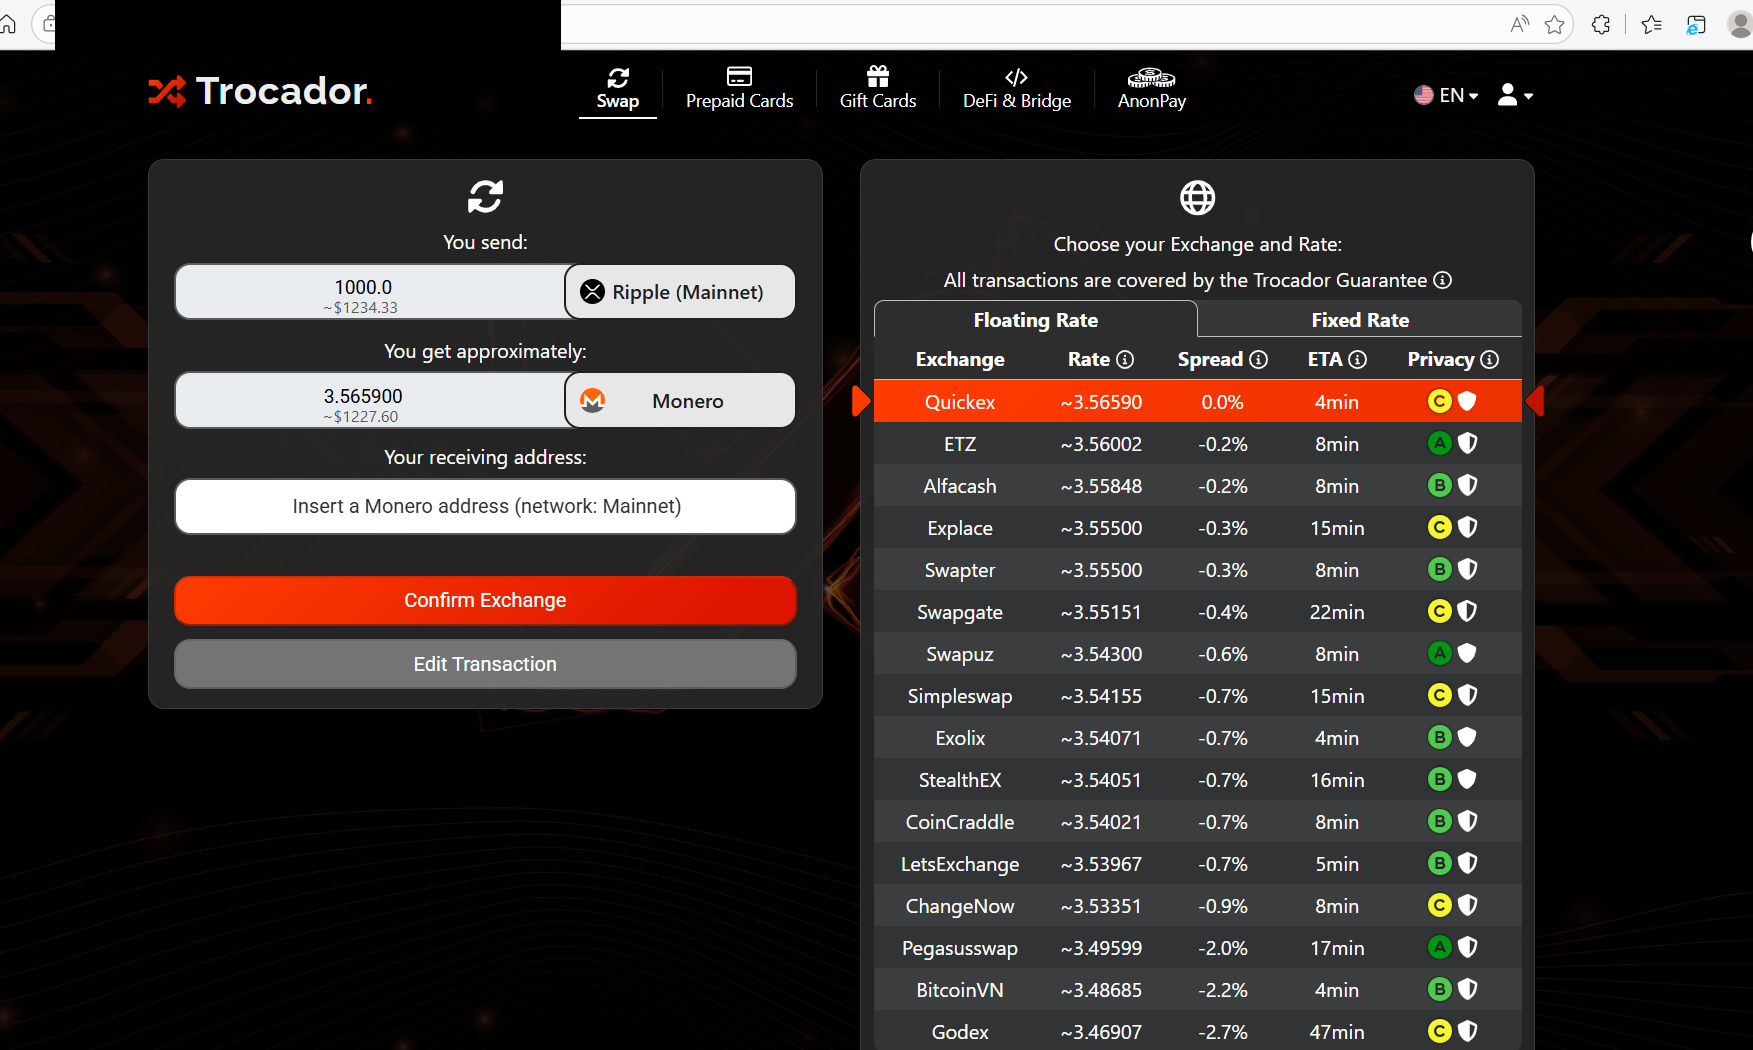
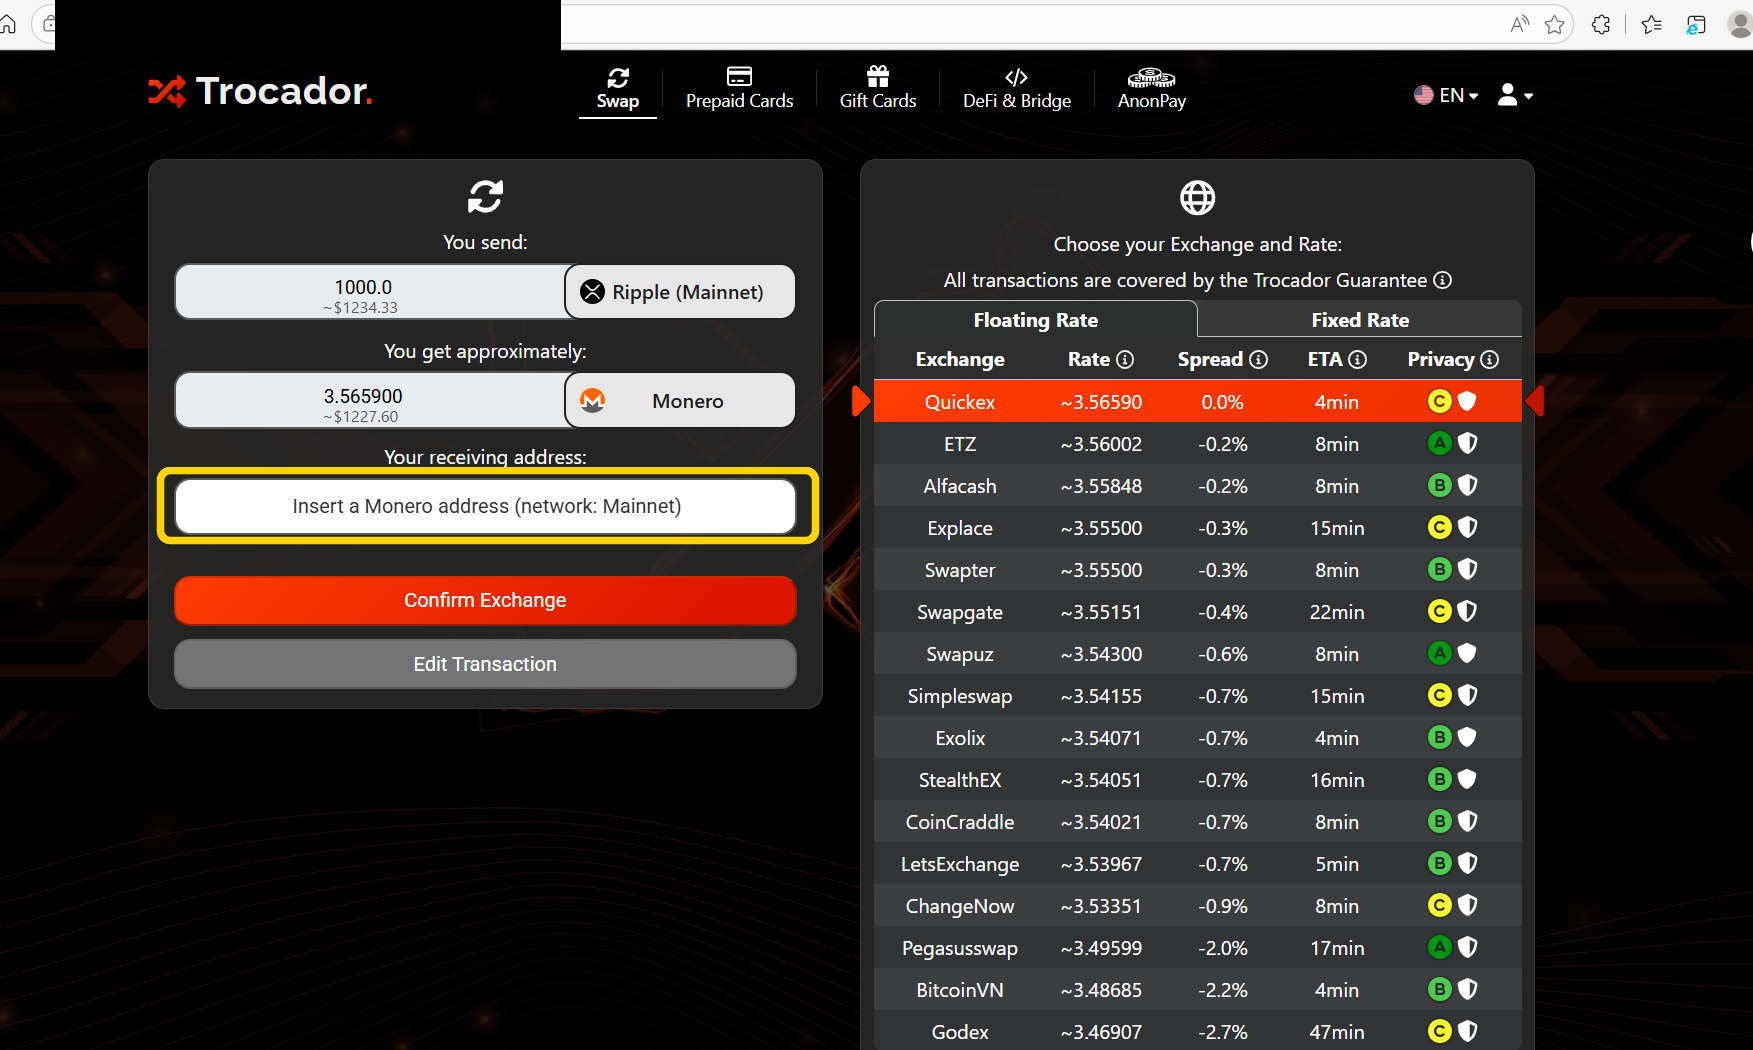
Update guides and service worker for improved clarity
Update guide images and captions to highlight deposit addresses and memo fields, and increment the service worker cache version.

Replit-Commit-Author: Agent
Replit-Commit-Session-Id: becae064-46f1-47b0-a414-b87196d20780
Replit-Commit-Checkpoint-Type: full_checkpoint
Replit-Commit-Event-Id: 75b33f22-1063-4c55-a44d-228b2ef15427
Replit-Commit-Screenshot-Url: https://storage.googleapis.com/screenshot-production-us-central1/803dbb6f-bc6e-4d16-8dab-da23c27c28c7/becae064-46f1-47b0-a414-b87196d20780/Lnhrm2h
Replit-Helium-Checkpoint-Created: true

Changed region(s): [[0.0924, 0.4571, 0.4929, 0.5181], [0.0924, 0.4267, 0.4621, 0.4571], [0.0616, 0.4571, 0.0924, 0.4876]]

diff --git a/client/src/pages/own-privately.tsx b/client/src/pages/own-privately.tsx
@@ -369,7 +369,8 @@ export default function OwnPrivately() {
                 />
                 <figcaption className="border-t border-border px-3 py-2 text-xs text-muted-foreground">
                   Pick an exchange row, then paste <strong>your Monero receiving address</strong> into
-                  the "receiving address" box and confirm. That's the only address you type.
+                  the box outlined in <strong className="text-[#FFD400]">yellow</strong> and confirm.
+                  That's the only address you type.
                 </figcaption>
               </figure>
             </div>
@@ -398,9 +399,11 @@ export default function OwnPrivately() {
                   data-testid="img-guide-send"
                 />
                 <figcaption className="border-t border-border px-3 py-2 text-xs text-muted-foreground">
-                  The swap site now gives you a <strong>deposit address</strong> and a{" "}
-                  <strong>Memo</strong> — copy both into Uphold's send screen. (We've blanked out the
-                  real address, memo and IDs in this example for privacy.)
+                  The box outlined in <strong className="text-[#FFD400]">yellow</strong> is the{" "}
+                  <strong>deposit address</strong>; the box in{" "}
+                  <strong className="text-[#22D3EE]">blue</strong> is the <strong>Memo</strong> — copy
+                  both into Uphold's send screen. (We've blanked out the real address, memo and IDs in
+                  this example for privacy.)
                 </figcaption>
               </figure>
             </div>

diff --git a/client/public/sw.js b/client/public/sw.js
@@ -3,7 +3,7 @@
 // cache-first for static assets (icons, fonts, images).
 // Bumping CACHE_VERSION forces all clients to refresh on next load.
 
-const CACHE_VERSION = "cob-v51";
+const CACHE_VERSION = "cob-v52";
 const STATIC_CACHE = `${CACHE_VERSION}-static`;
 const RUNTIME_CACHE = `${CACHE_VERSION}-runtime`;
 
